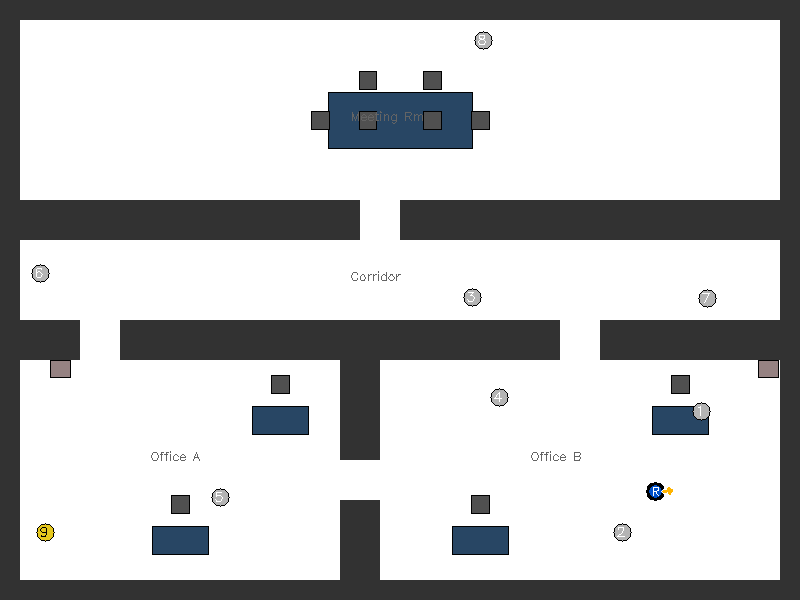
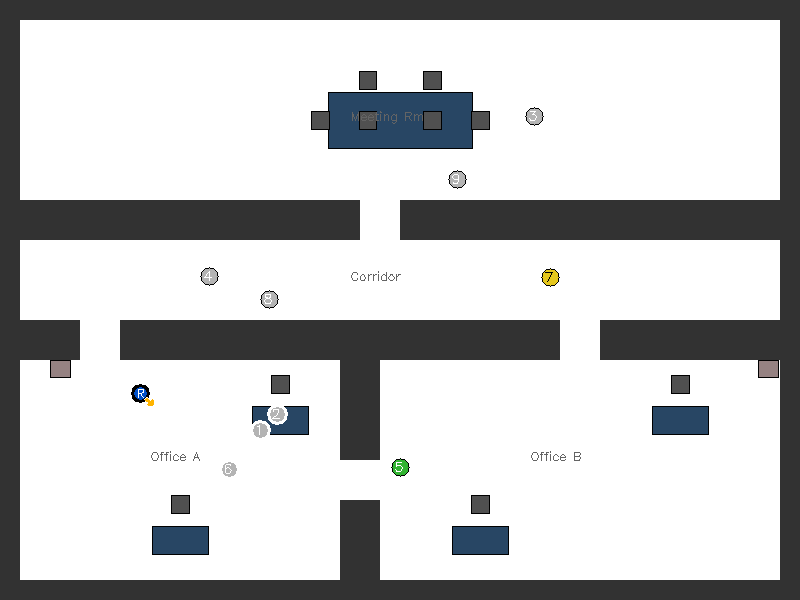
read results in csv

diff --git a/scripts/baseline_to_csv.py b/scripts/baseline_to_csv.py
@@ -1,0 +1,140 @@
+#!/usr/bin/env python3.12
+"""Convert baseline result JSONs to a flat CSV for analysis."""
+
+import csv
+import json
+import re
+import sys
+from pathlib import Path
+
+RESULTS_DIR = Path(__file__).parent.parent / "baseline_results"
+OUTPUT_CSV = RESULTS_DIR / "baseline_results.csv"
+
+CAT_RE = re.compile(
+    r"CategoryScore\(name='(\w+)', score=([\d.]+), grade='(\w+)', grade_label='[^']+', weight=([\d.]+)\)"
+)
+
+CATEGORIES = ["speed", "accuracy", "safety", "efficiency", "effectiveness"]
+OBJECT_TYPES = ["fire_extinguisher", "first_aid_kit", "hazard_sign"]
+
+TIER_ORDER = {"easy": 0, "medium": 1, "hard": 2, "brutal": 3, "perception_stress": 4}
+
+
+def parse_tier(scenario_name: str) -> str:
+    """Extract tier from scenario name like 'office_easy_001'."""
+    for tier in TIER_ORDER:
+        if f"_{tier}_" in scenario_name or scenario_name.endswith(f"_{tier}"):
+            return tier
+    return "unknown"
+
+
+def parse_categories(cat_strings: list[str]) -> dict:
+    out = {}
+    for s in cat_strings:
+        m = CAT_RE.search(s)
+        if m:
+            name, score, grade, weight = m.groups()
+            out[f"{name}_score"] = float(score)
+            out[f"{name}_grade"] = grade
+            out[f"{name}_weight"] = float(weight)
+    return out
+
+
+def load_result(path: Path) -> dict:
+    data = json.loads(path.read_text())
+    rm = data["raw_metrics"]
+
+    row: dict = {}
+
+    # Run info
+    row["filename"] = path.name
+    ts = path.stem.rsplit("_", 1)[-1]  # e.g. 20260303T205652
+    row["timestamp"] = ts
+    row["scenario_name"] = data["scenario_name"]
+    row["tier"] = parse_tier(data["scenario_name"])
+    row["status"] = data["status"]
+    row["elapsed_seconds"] = data["elapsed_seconds"]
+    row["timeout_seconds"] = data["timeout_seconds"]
+    row["random_seed"] = data["random_seed"]
+
+    # Raw metrics (flat, no events)
+    for key in [
+        "meters_traveled", "collision_count", "near_miss_count",
+        "exploration_coverage", "revisit_ratio",
+        "found_ratio", "precision", "duplicate_rate",
+        "time_to_all_detections", "average_time_per_detection",
+        "false_positive_count", "duplicate_count", "detection_count",
+        "task_completion_time",
+    ]:
+        row[key] = rm.get(key, "")
+
+    # Detection by type
+    dbt = rm.get("detection_by_type", {})
+    for obj_type in OBJECT_TYPES:
+        info = dbt.get(obj_type, {})
+        row[f"{obj_type}_detected"] = info.get("detected", "")
+        row[f"{obj_type}_total"] = info.get("total", "")
+
+    # Category scores
+    row.update(parse_categories(data.get("categories", [])))
+    # Ensure all expected category columns exist
+    for cat in CATEGORIES:
+        for suffix in ("_score", "_grade", "_weight"):
+            row.setdefault(f"{cat}{suffix}", "")
+
+    # Overall
+    row["overall_score"] = data["overall_score"]
+    row["overall_grade"] = data["overall_grade"]
+    row["overall_grade_label"] = data["overall_grade_label"]
+
+    return row
+
+
+def main():
+    files = sorted(RESULTS_DIR.glob("*.json"))
+    if not files:
+        print(f"No JSON files found in {RESULTS_DIR}", file=sys.stderr)
+        sys.exit(1)
+
+    rows = [load_result(f) for f in files]
+
+    # Sort by tier order then timestamp
+    rows.sort(key=lambda r: (TIER_ORDER.get(r["tier"], 99), r["timestamp"]))
+
+    # Add run_idx per tier
+    tier_counter: dict[str, int] = {}
+    for row in rows:
+        tier = row["tier"]
+        tier_counter[tier] = tier_counter.get(tier, 0) + 1
+        row["run_idx"] = tier_counter[tier]
+
+    # Build ordered column list
+    columns = [
+        "filename", "timestamp", "scenario_name", "tier", "run_idx",
+        "status", "elapsed_seconds", "timeout_seconds", "random_seed",
+        # raw metrics
+        "meters_traveled", "collision_count", "near_miss_count",
+        "exploration_coverage", "revisit_ratio",
+        "found_ratio", "precision", "duplicate_rate",
+        "time_to_all_detections", "average_time_per_detection",
+        "false_positive_count", "duplicate_count", "detection_count",
+        "task_completion_time",
+        # detection by type
+        *[f"{t}_detected" for t in OBJECT_TYPES],
+        *[f"{t}_total" for t in OBJECT_TYPES],
+        # category scores
+        *[f"{c}{s}" for c in CATEGORIES for s in ("_score", "_grade", "_weight")],
+        # overall
+        "overall_score", "overall_grade", "overall_grade_label",
+    ]
+
+    with OUTPUT_CSV.open("w", newline="") as f:
+        writer = csv.DictWriter(f, fieldnames=columns)
+        writer.writeheader()
+        writer.writerows(rows)
+
+    print(f"Written {len(rows)} rows → {OUTPUT_CSV}")
+
+
+if __name__ == "__main__":
+    main()

diff --git a/src/world_manager/world_generator.py b/src/world_manager/world_generator.py
@@ -16,6 +16,7 @@ from __future__ import annotations
 
 import copy
 import io
+import math
 import subprocess
 import tempfile
 import xml.etree.ElementTree as ET
@@ -95,11 +96,24 @@ class WorldGenerator:
 
         # ── Place objects ──────────────────────────────────────────────────────
         objects = world_cfg.get("objects", [])
-        robot_spawns = [
+        robot_spawns: list[tuple[float, float]] = [
             (float(r["spawn_pose"]["x"]), float(r["spawn_pose"]["y"]))
             for r in robots_cfg
             if "x" in r.get("spawn_pose", {}) and "y" in r.get("spawn_pose", {})
         ]
+        # Sample points along each patrol segment so objects are never placed
+        # in the path of a moving patrol robot.
+        clearance = float(template_cfg.get("placement_clearance", 0.5))
+        for obs in world_cfg.get("dynamic_obstacles", []):
+            waypoints = obs.get("patrol", [])
+            for i in range(len(waypoints) - 1):
+                x1, y1 = float(waypoints[i][0]), float(waypoints[i][1])
+                x2, y2 = float(waypoints[i + 1][0]), float(waypoints[i + 1][1])
+                seg_len = math.hypot(x2 - x1, y2 - y1)
+                n = max(1, int(seg_len / clearance))
+                for j in range(n + 1):
+                    t = j / n
+                    robot_spawns.append((x1 + t * (x2 - x1), y1 + t * (y2 - y1)))
         placer = ObjectPlacer(template_cfg, robot_spawns=robot_spawns)
         placements: list[PlacedObject] = placer.place(objects, seed) if objects else []
 

diff --git a/src/scenario_runner/mission_server.py b/src/scenario_runner/mission_server.py
@@ -38,20 +38,35 @@ def build_mission_data(cfg: dict) -> dict[str, Any]:
     scenario = cfg["scenario"]
     objects = cfg.get("world", {}).get("objects", [])
 
-    targets: list[dict[str, Any]] = []
+    # Group by type — scenarios may list the same type multiple times with
+    # different placement strategies (e.g. some on desk, some on floor).
+    # Merge so the mission brief shows one line per object type.
+    grouped: dict[str, dict[str, Any]] = {}
     for obj in objects:
+        obj_type = obj["type"]
         revealed = obj.get("count_revealed", True)
+        count = int(obj.get("count", 1))
+        if obj_type not in grouped:
+            grouped[obj_type] = {"total": 0, "revealed": 0, "all_revealed": True}
+        grouped[obj_type]["total"] += count
         if revealed:
+            grouped[obj_type]["revealed"] += count
+        else:
+            grouped[obj_type]["all_revealed"] = False
+
+    targets: list[dict[str, Any]] = []
+    for obj_type, info in grouped.items():
+        if info["all_revealed"]:
             targets.append({
-                "type": obj["type"],
-                "count": obj.get("count", 1),
+                "type": obj_type,
+                "count": info["total"],
                 "count_exact": True,
             })
         else:
             targets.append({
-                "type": obj["type"],
+                "type": obj_type,
                 "count_exact": False,
-                "min_count": 1,
+                "min_count": max(1, info["revealed"]),
             })
 
     time_limit = int(scenario.get("timeout_seconds", 600))
